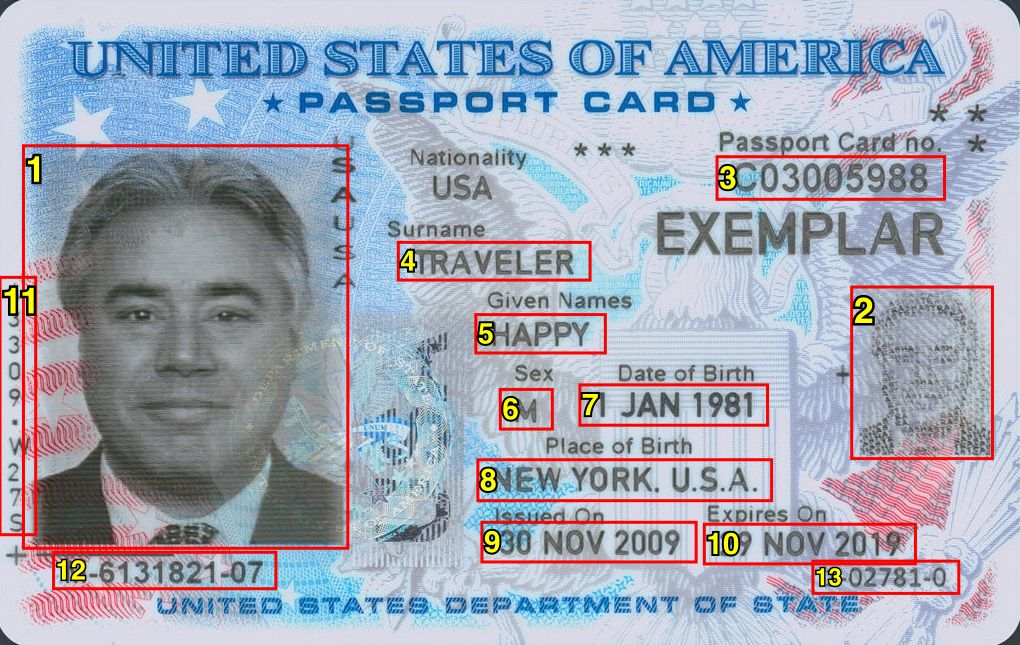
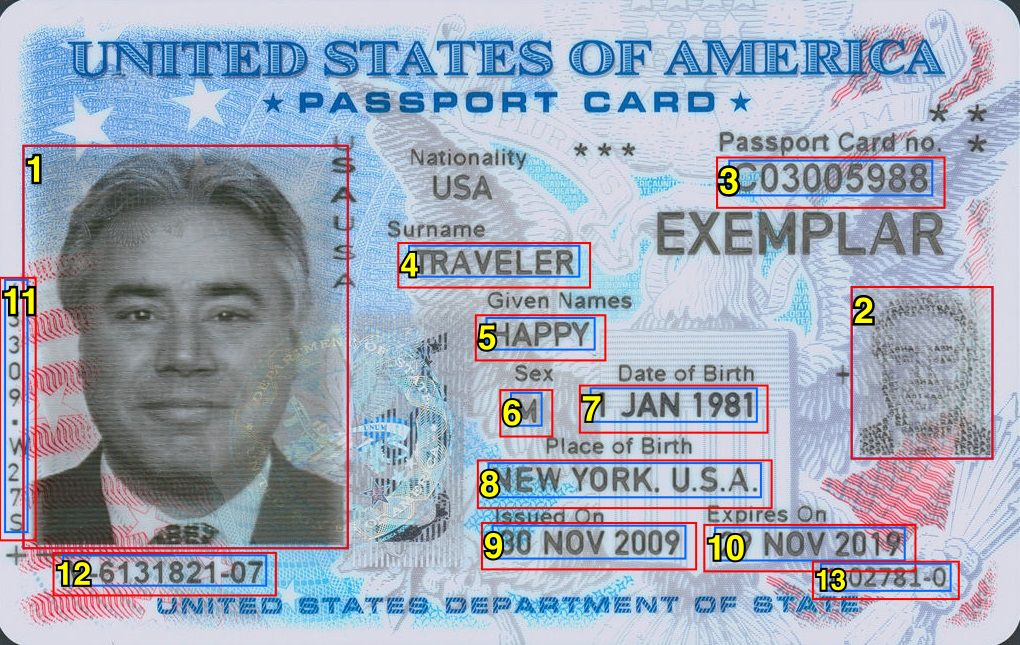
Expand text redaction boxes more at the bottom and show pre-expansion boxes (#34)
* Expand text redaction boxes by a quarter line height

Descenders (g, j, p, q, y) were not fully covered at one-eighth line
height of vertical padding. Raise vertical padding to one-quarter to
match horizontal padding.

Re-recorded processRedaction Gemini mocks and annotated test JPEGs with
DELETE_UNUSED=1.

* Show pre-expansion text boxes in annotated test images

Draw the box before text padding in blue under the padded red box, and make
the red outline thinner so the blue box stays visible.

getRedactionBoundingBoxes now returns beforeExpansion on each box for tests.
processRedaction copies only the stored fields, so beforeExpansion is not
saved.

* Fix reasoning effort in getRedactionBoundingBoxes doc comment

The code uses low reasoning effort, so the comment should say low too.

---------

Changed region(s): [[0.0, 0.2171, 0.9422, 0.9302], [0.699, 0.2171, 0.9422, 0.3411], [0.8206, 0.4341, 0.9725, 0.7132]]

diff --git a/lib/redaction/annotateJPEGWithRedactionBoxes.ts b/lib/redaction/annotateJPEGWithRedactionBoxes.ts
@@ -1,5 +1,5 @@
 import sharp from 'sharp';
-import type { AutoRedactionBoundingBox } from './redactionTypes';
+import type { AutoRedactionBoundingBox, BoundingBox } from './redactionTypes';
 
 /** Automatic box plus the numeric ID shown in inspection annotations. */
 export interface RedactionBoxToAnnotate extends Omit<
@@ -7,10 +7,12 @@ export interface RedactionBoxToAnnotate extends Omit<
   'page'
 > {
   id: number;
+  /** The box before text padding. Drawn in blue under the red `box`. */
+  beforeExpansion: BoundingBox;
 }
 
 /**
- * Draw red outlines around normalized automatic redaction boxes.
+ * Draw the padded box in red and the pre-padding box in blue.
  *
  * The returned JPEG preserves the input dimensions and is intended for manual
  * inspection, not as the final redacted document. For example, a box with
@@ -32,16 +34,23 @@ export async function annotateJPEGWithRedactionBoxes(
   }
 
   const { width, height } = metadata;
-  const strokeWidth = Math.max(3, Math.round(Math.min(width, height) / 250));
+  // Thin enough that the blue box inside the red one stays visible.
+  const strokeWidth = Math.max(2, Math.round(Math.min(width, height) / 400));
   const rectangles = boxes
-    .map(({ box, id }): string => {
+    .map(({ box, beforeExpansion, id }): string => {
       const x = box.minX * width;
       const y = box.minY * height;
       const boxWidth = (box.maxX - box.minX) * width;
       const boxHeight = (box.maxY - box.minY) * height;
+      const beforeX = beforeExpansion.minX * width;
+      const beforeY = beforeExpansion.minY * height;
+      const beforeWidth = (beforeExpansion.maxX - beforeExpansion.minX) * width;
+      const beforeHeight =
+        (beforeExpansion.maxY - beforeExpansion.minY) * height;
       const fontSize = Math.min(36, Math.max(12, boxHeight * 0.75));
       const textStrokeWidth = Math.max(2, Math.round(fontSize / 8));
-      return `<rect x="${x}" y="${y}" width="${boxWidth}" height="${boxHeight}" fill="none" stroke="#ff0000" stroke-width="${strokeWidth}"/><text x="${x + 2}" y="${y + fontSize}" fill="#ffff00" stroke="#000000" stroke-width="${textStrokeWidth}" paint-order="stroke" font-family="sans-serif" font-size="${fontSize}" font-weight="bold">${id}</text>`;
+      // Blue first so the red outline paints over it where they meet.
+      return `<rect x="${beforeX}" y="${beforeY}" width="${beforeWidth}" height="${beforeHeight}" fill="none" stroke="#0066ff" stroke-width="${strokeWidth}"/><rect x="${x}" y="${y}" width="${boxWidth}" height="${boxHeight}" fill="none" stroke="#ff0000" stroke-width="${strokeWidth}"/><text x="${x + 2}" y="${y + fontSize}" fill="#ffff00" stroke="#000000" stroke-width="${textStrokeWidth}" paint-order="stroke" font-family="sans-serif" font-size="${fontSize}" font-weight="bold">${id}</text>`;
     })
     .join('');
   const overlay: Buffer = Buffer.from(

diff --git a/lib/redaction/getRedactionBoundingBoxes.ts b/lib/redaction/getRedactionBoundingBoxes.ts
@@ -13,9 +13,18 @@ import {
 } from './redactionTypes';
 import { redactionBoundingBoxesModel } from './redactionBoundingBoxesModel';
 
+/** A returned box plus the box it had before text padding, for tests. */
+export interface RedactionBoxWithPreExpansion extends SinglePageRedactionBoundingBox {
+  /**
+   * The box before text padding was added. Use only in tests, such as to draw
+   * the unpadded text box. Production code should use `box`.
+   */
+  beforeExpansion: BoundingBox;
+}
+
 /** Redaction boxes and token usage returned for one page. */
 export interface GetRedactionBoundingBoxesResult {
-  boxes: SinglePageRedactionBoundingBox[];
+  boxes: RedactionBoxWithPreExpansion[];
   /** Same value as `response.cost`, for callers that only need the price. */
   cost: OpenAICompatibleCompletionCost;
   response: OpenAICompatibleCompletionResult;
@@ -282,14 +291,14 @@ Remove empty spaces (e.g., even if represented in file as "0 3 0 5", return
 
 function mapRedactionBoxToBoundingBox(
   rawBox: RedactionBoxContent
-): SinglePageRedactionBoundingBox {
+): RedactionBoxWithPreExpansion {
   const box: BoundingBox = {
     minX: rawBox.minX / 1000,
     minY: rawBox.minY / 1000,
     maxX: rawBox.maxX / 1000,
     maxY: rawBox.maxY / 1000,
   };
-  const boundingBox: SinglePageRedactionBoundingBox = {
+  const boundingBox: RedactionBoxWithPreExpansion = {
     type: RedactionBoundingBoxType.automatic,
     dataType: rawBox.dataType,
     text: rawBox.text,
@@ -297,6 +306,7 @@ function mapRedactionBoxToBoundingBox(
       rawBox.object === 'formField' || rawBox.object === 'other'
         ? box
         : expandTextBox(box, rawBox.object.lineHeightY / 1000),
+    beforeExpansion: box,
     enabled: true,
   };
   return boundingBox;
@@ -310,12 +320,15 @@ function mapRedactionBoxToBoundingBox(
  * not a true 1/4 line height on pages whose width and height differ.
  */
 function expandTextBox(box: BoundingBox, lineHeight: number): BoundingBox {
-  const verticalPadding = lineHeight / 8;
-  const horizontalPadding = lineHeight / 4;
+  // Top padding: fairly small
+  const topPadding = lineHeight * 0.1;
+  // Bottom padding covers the descenders of g, j, p, q, and y.
+  const bottomPadding = lineHeight * 0.4;
+  const horizontalPadding = lineHeight * 0.25;
   return {
     minX: Math.max(0, box.minX - horizontalPadding),
-    minY: Math.max(0, box.minY - verticalPadding),
+    minY: Math.max(0, box.minY - topPadding),
     maxX: Math.min(1, box.maxX + horizontalPadding),
-    maxY: Math.min(1, box.maxY + verticalPadding),
+    maxY: Math.min(1, box.maxY + bottomPadding),
   };
 }

diff --git a/app/api/redaction/lib/processRedaction.ts b/app/api/redaction/lib/processRedaction.ts
@@ -156,10 +156,18 @@ async function processImage({
       try {
         const result = await getRedactionBoundingBoxes(visionJPEG);
         const processResult: ProcessImageResult = {
-          boundingBoxes: result.boxes.map((box): RedactionBoundingBox => ({
-            ...box,
-            page,
-          })),
+          // Copy only stored fields, so the test-only `beforeExpansion` is
+          // not saved.
+          boundingBoxes: result.boxes.map(
+            ({ type, dataType, text, box, enabled }): RedactionBoundingBox => ({
+              type,
+              dataType,
+              text,
+              box,
+              enabled,
+              page,
+            })
+          ),
           timing: {
             page,
             visionTimeMs: Date.now() - visionStartedAt,

diff --git a/lib/redaction/annotateJPEGWithRedactionBoxes.test.ts b/lib/redaction/annotateJPEGWithRedactionBoxes.test.ts
@@ -24,6 +24,7 @@ describe(annotateJPEGWithRedactionBoxes, () => {
         dataType: RedactedDataType.email,
         text: 'person@example.com',
         box: { minX: 0.1, minY: 0.2, maxX: 0.4, maxY: 0.5 },
+        beforeExpansion: { minX: 0.15, minY: 0.25, maxX: 0.35, maxY: 0.45 },
         enabled: true,
       },
     ];
